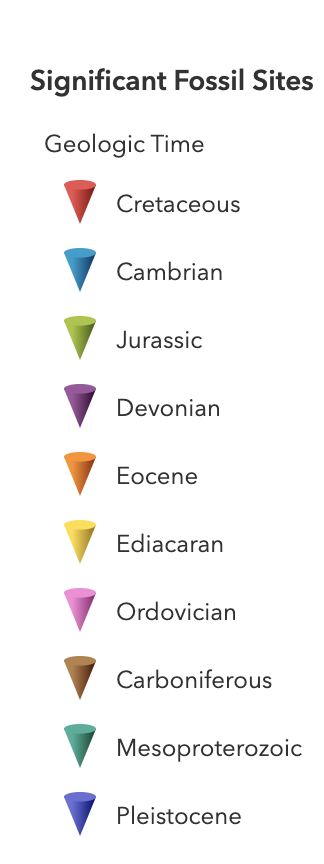
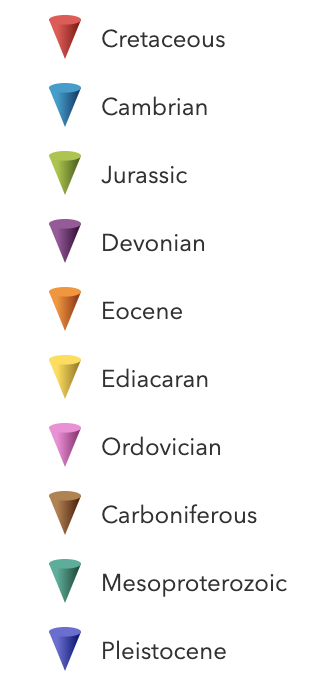
final app

diff --git a/src/components/LegendPop.js b/src/components/LegendPop.js
@@ -22,7 +22,7 @@ componentWillUnmount() {
 }
 
 openNav() {
-    const style = { width : 350 };
+    const style = { width : 270 };
     this.setState({ style });
     document.body.style.backgroundColor = "rgba(0,0,0,0.4)";
     document.addEventListener("click", this.closeNav);
@@ -38,7 +38,7 @@ closeNav() {
 render() {
     return (
       <div>
-<span style={{fontSize:30,cursor:"pointer"}} onClick={this.openNav}>&#9776; Legend</span>
+<button className="legendClick" style={{fontSize:20,cursor:"pointer"}} onClick={this.openNav}>&#9776; Legend</button>
         <div
             ref       = "snav"
             className = "overlay"
@@ -46,8 +46,10 @@ render() {
         >
             <div className = "sidenav-container">
                 <div className = "text-center">
-                  <h2></h2>
-                  <p></p>
+                  <br></br>
+                  <br></br>
+                  <br></br>
+                  <p>Geological Time</p>
                 </div>
                 <a
                     href      = "javascript:void(0)"

diff --git a/src/components/Nav.js b/src/components/Nav.js
@@ -59,15 +59,15 @@ const Navbar = props => {
   return (
       <Nav>
         <Logo href="#" src={logo} />
-        <TopNavTitle href="#">Worldwide Historic Fossil Sites</TopNavTitle>
+        <TopNavTitle>Worldwide Historic Fossil Sites</TopNavTitle>
         <NavList>
-          <TopNavLink href="https://github.com/Esri/esri-react-boot">
+          <TopNavLink href="">
             {/*  */}
           </TopNavLink>
-          <TopNavLink href="https://github.com/Esri/esri-react-boot/wiki">
+          <TopNavLink href="">
             {/* */}
           </TopNavLink>
-          <TopNavLink href="https://calcite-react.netlify.com/">
+          <TopNavLink href="">
             {/* */}
           </TopNavLink>
         </NavList>

diff --git a/src/styles/index.css b/src/styles/index.css
@@ -1,4 +1,5 @@
     html,
+
     body{
       padding: 0;
       margin: 0;
@@ -31,9 +32,9 @@
   .overlay-content {
       position: relative;
       top: 25%;
-      width: 100%;
+      width: 80%;
       text-align: center;
-      margin-top: 30px;
+      margin-top: 20px;
   }
   
   .overlay a {
@@ -52,8 +53,12 @@
   .overlay .closebtn {
       position: absolute;
       top: 20px;
-      right: 45px;
+      right: 40px;
       font-size: 60px;
+  }
+
+  .btn .legendClicked {
+    background-color: #818181;
   }
   
   @media screen and (max-height: 450px) {
@@ -69,3 +74,6 @@
     color:white;
     }
 
+    .list-group {
+      padding:0px;
+    }

diff --git a/src/components/Main.js b/src/components/Main.js
@@ -34,13 +34,6 @@ const MapWrapper = styled.div`
   overflow: hidden;
 `;
 
-const LegendWrapper = styled.div`
-  justify-content: right;
-  & img {
-    height: 55px;
-  }
-`;
-
 // Component definition
 const Main = props => {
   const config = useSelector(state => state.config);
@@ -53,8 +46,6 @@ const Main = props => {
       </Nav>
       <MapWrapper>
         <Map onMapLoaded={mapLoaded} mapConfig={config.mapConfig} />
-
-        {/* <LegendWrapper><Legend></Legend></LegendWrapper> */}
         </MapWrapper>
     <Test></Test>
     </Container>

diff --git a/src/components/UserAccount.js b/src/components/UserAccount.js
@@ -26,10 +26,10 @@ const UserAccount = props => {
         <ArcgisAccountMenuItem
           onClick={() => console.log("Profile & Settings clicked")}
         >
-          More Fossil Maps
+          {/* My Profile */}
         </ArcgisAccountMenuItem>
         <ArcgisAccountMenuItem onClick={() => console.log("My Esri clicked")}>
-          My Esri
+          {/* My Esri */}
         </ArcgisAccountMenuItem>
         <ArcgisAccountMenuItem onClick={() => console.log("Training clicked")}>
           {/* Training */}

diff --git a/public/index.html b/public/index.html
@@ -7,7 +7,7 @@
       content="width=device-width, initial-scale=1, shrink-to-fit=no"
     />
     <link rel="manifest" href="%PUBLIC_URL%/manifest.json" />
-    <link rel="shortcut icon" href="%PUBLIC_URL%/favicon.ico" />
+    <link rel="shortcut icon" href="favicon.ico" />
     <link rel="stylesheet" href="../src/styles/index.css" />
 
     <title>Fossil Tracker App</title>

diff --git a/src/components/esri/map/Map.js b/src/components/esri/map/Map.js
@@ -1,6 +1,6 @@
 // React imports
 import React from "react";
-import Legend from "./Leg"
+
 
 // ESRI ArcGIS API
 import { loadMap } from "../../../utils/map";
@@ -24,7 +24,7 @@ const Map = props => {
     props.onMapLoaded();
   });
 
-  // Compnent template
+  // Comopnent template
   return <Container id={containerID}>
   </Container>
 };
